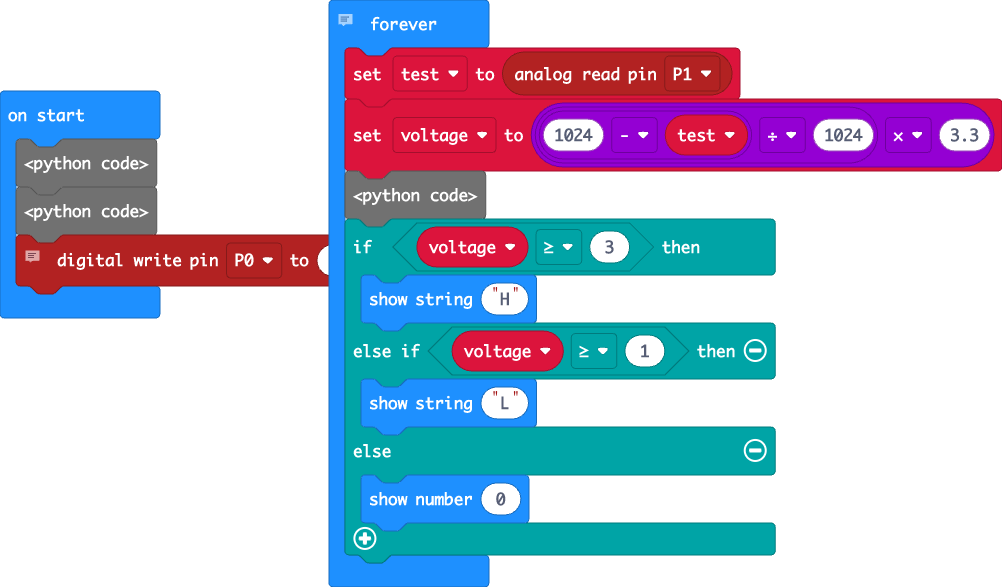
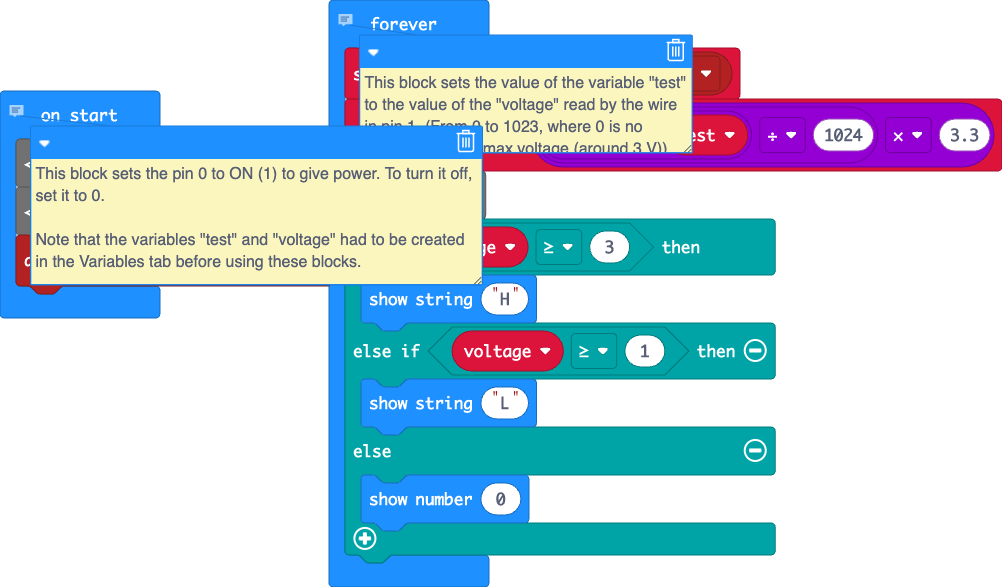
Update main.blocks, main.ts, main.py

Changed region(s): [[0.0, 0.0307, 0.7116, 0.4906]]

diff --git a/main.ts b/main.ts
@@ -1,8 +1,8 @@
-let voltage = 0
-let test = 0
 // This block sets the pin 0 to ON (1) to give power. To turn it off, set it to 0.
 // 
 // Note that the variables "test" and "voltage" had to be created in the Variables tab before using these blocks.
+let voltage = 0
+let test = 0
 pins.digitalWritePin(DigitalPin.P0, 1)
 // This block sets the value of the variable "test" to the value of the "voltage" read by the wire in pin 1. (From 0 to 1023, where 0 is no voltage to 1023, max voltage (around 3 V)).
 // 

diff --git a/main.py b/main.py
@@ -1,8 +1,8 @@
-voltage = 0
-test = 0
 # This block sets the pin 0 to ON (1) to give power. To turn it off, set it to 0.
 # 
 # Note that the variables "test" and "voltage" had to be created in the Variables tab before using these blocks.
+voltage = 0
+test = 0
 pins.digital_write_pin(DigitalPin.P0, 1)
 # This block sets the value of the variable "test" to the value of the "voltage" read by the wire in pin 1. (From 0 to 1023, where 0 is no voltage to 1023, max voltage (around 3 V)).
 # 
@@ -14,7 +14,7 @@ def on_forever():
     voltage = (1024 - test) / 1024 * 3.3
     print("Analog read in: " + ("" + ("" + ("" + str(test)))) + " Voltage: " + ("" + ("" + ("" + str(voltage)))) + "V")
     if voltage >= 3:
-        basic.show_string("L")
+        basic.show_string("H")
     elif voltage >= 1:
         basic.show_string("L")
     else:
